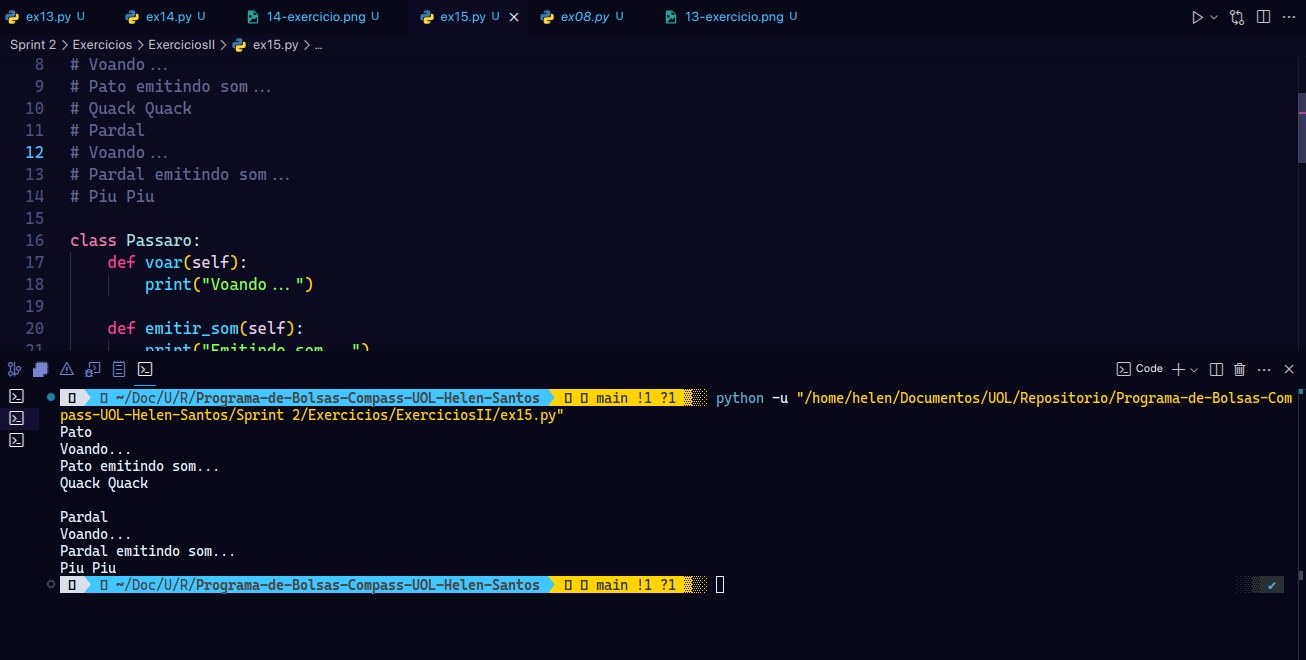
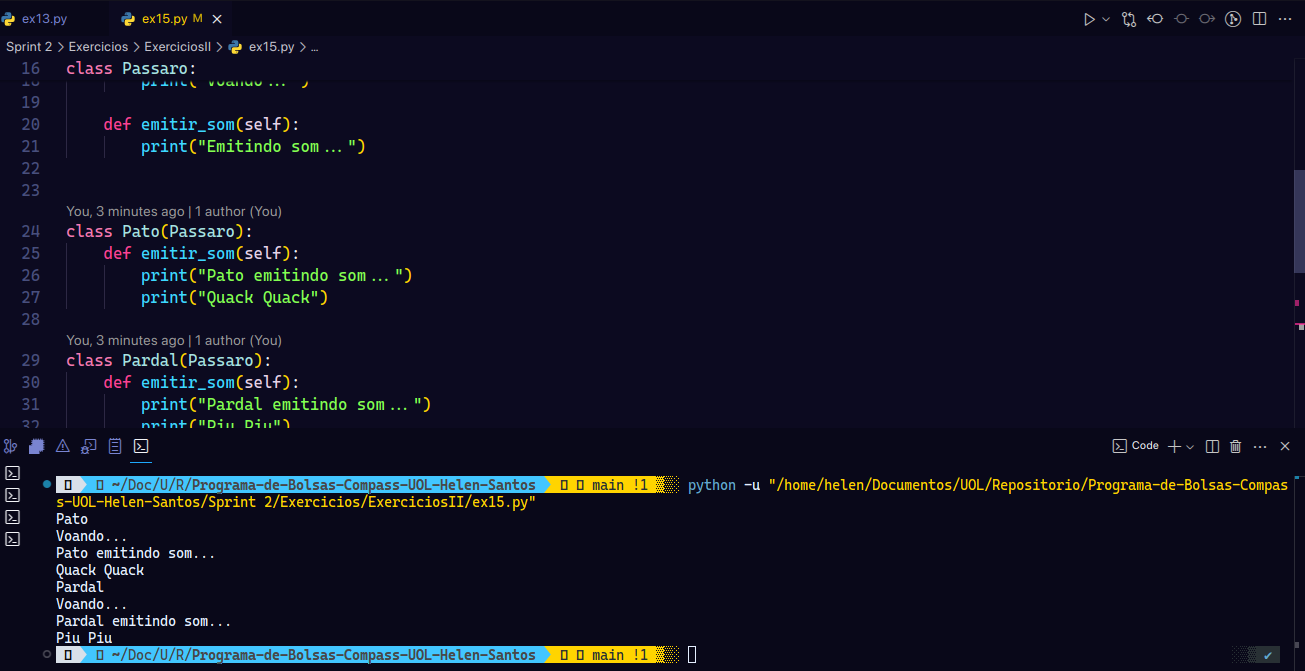
Sprint 2 - Exercícios

diff --git a/Sprint 2/Exercicios/ExerciciosII/ex15.py b/Sprint 2/Exercicios/ExerciciosII/ex15.py
@@ -35,9 +35,6 @@ print("Pato")
 pato = Pato()
 pato.voar()
 pato.emitir_som()
-
-print()
-
 print("Pardal")
 pardal = Pardal()
 pardal.voar()
